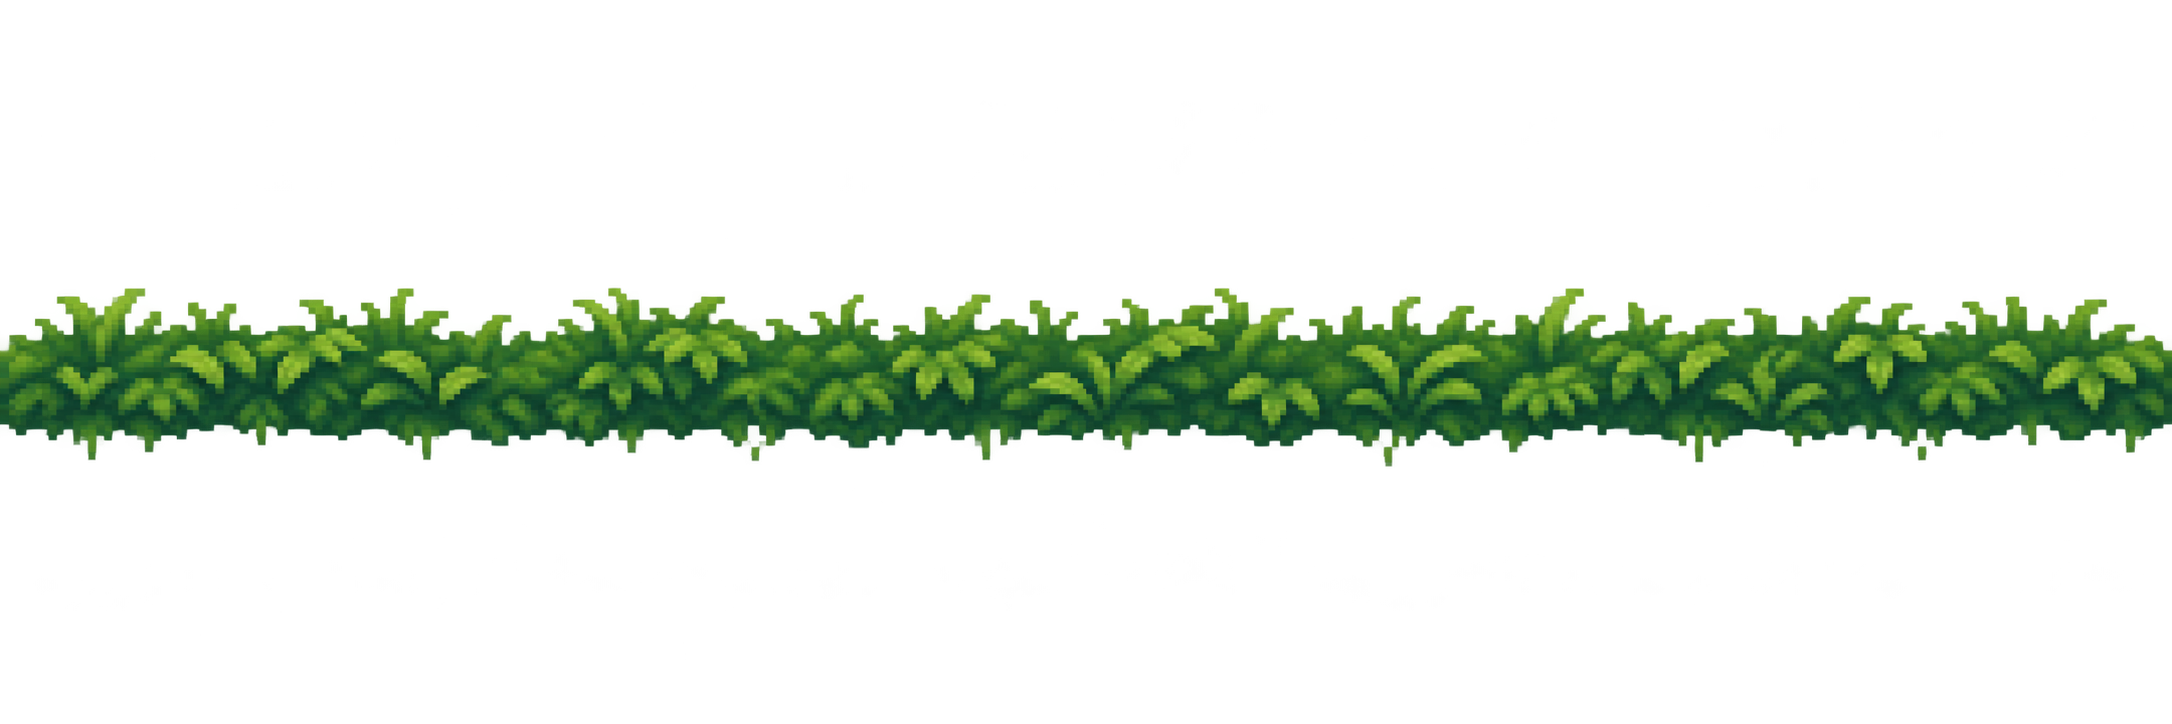
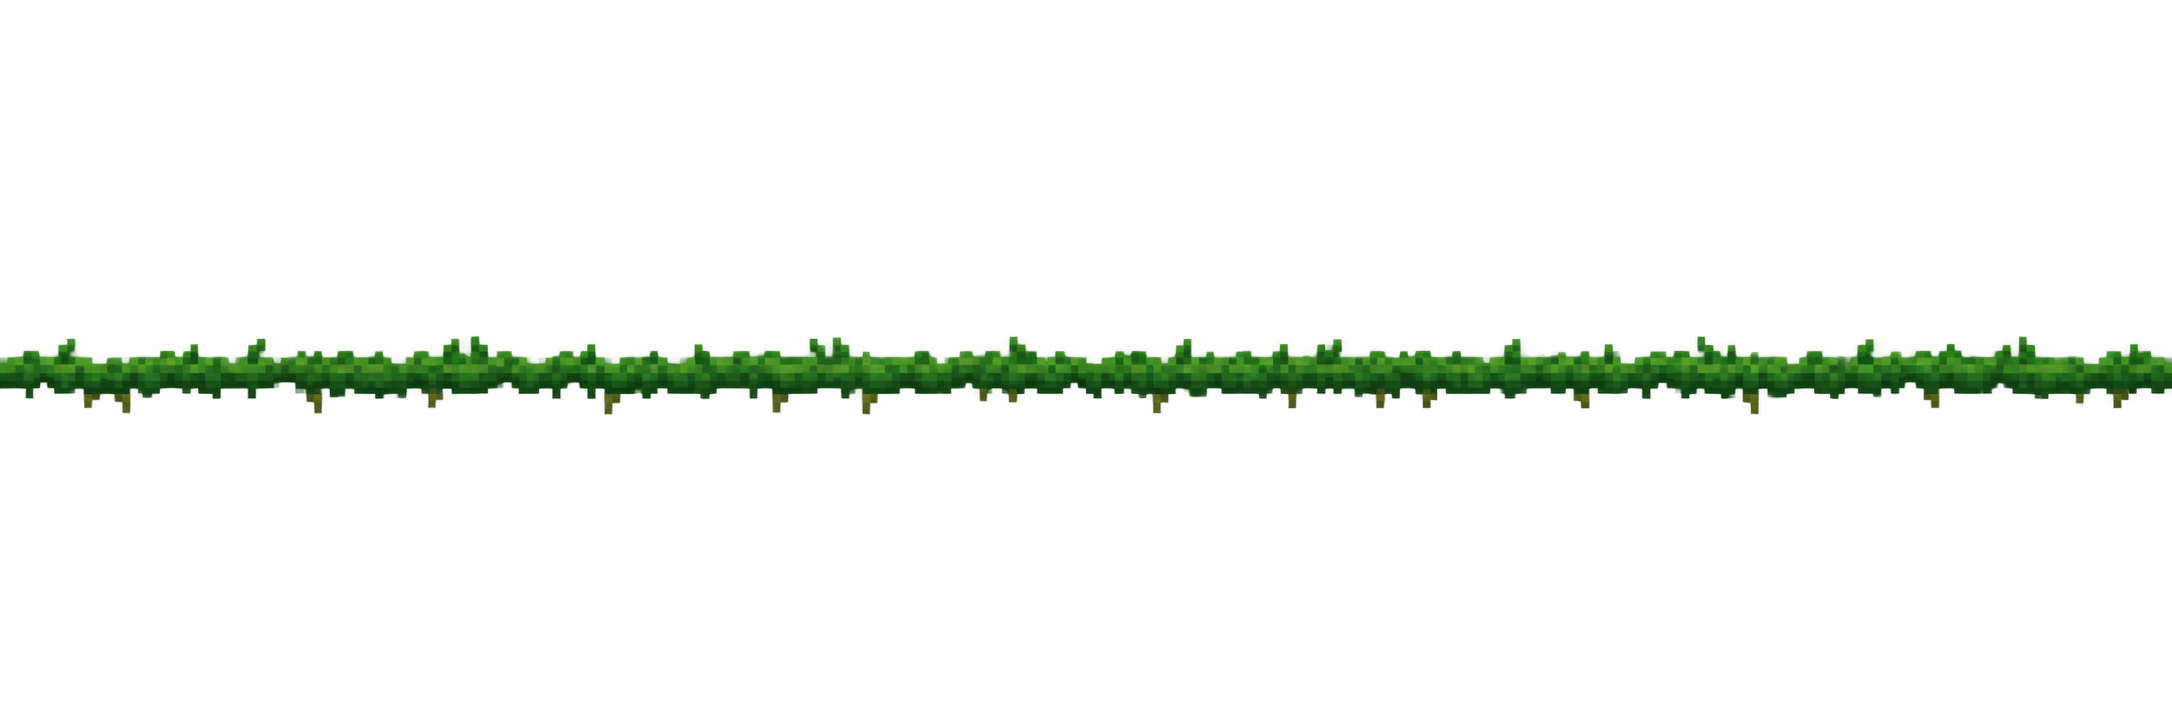
Refine grove turf into thin vanilla-like sod across all block forms

Changed region(s): [[0.0, 0.395, 1.0, 0.6381]]

diff --git a/Content/Tiles/GroveTurfShape.cs b/Content/Tiles/GroveTurfShape.cs
@@ -31,34 +31,41 @@ namespace IslandAdventure.Content.Tiles
         {
             var tile=Main.tile[i,j];
             int frame=(i%(texture.Width/18))*18;
-            // Sample every exposed face against actual neighboring collision geometry.
-            // The same textured rim is oriented onto sides, undersides and hammered edges.
-            for(int y=0;y<16;y++)for(int x=0;x<16;x++)
+            for(int y=0;y<16;y+=2)for(int x=0;x<16;x+=2)
             {
-                if(!Contains(tile.Slope,tile.IsHalfBlock,x,y))continue;
-                int depth=9,axis=0;
-                for(int d=1;d<=8;d++)
-                {
-                    int wx=i*16+x,wy=j*16+y;
-                    if(!Solid(wx,wy-d)){depth=d;axis=0;break;}
-                    if(!Solid(wx-d,wy)){depth=d;axis=1;break;}
-                    if(!Solid(wx+d,wy)){depth=d;axis=2;break;}
-                    if(!Solid(wx,wy+d)){depth=d;axis=3;break;}
-                    if(d<=4&&(!Solid(wx-d,wy-d)||!Solid(wx+d,wy-d)||!Solid(wx-d,wy+d)||!Solid(wx+d,wy+d)))
-                    {depth=d+2;axis=0;break;}
-                }
-                if(depth>8)continue;
-                int along=axis==1||axis==2?y:x;
-                batch.Draw(texture,point+new Vector2(x,y),new Rectangle(frame+along,4+depth-1,1,1),light);
+                if(TrySample(i,j,x,y,out int along,out int sourceY))
+                    batch.Draw(texture,point+new Vector2(x,y),new Rectangle(frame+along,sourceY,2,2),light);
             }
             // Grass tips remain above an exposed flat top; soil/body never spills outside slopes.
             if(tile.Slope==SlopeType.Solid)
             {
                 int top=tile.IsHalfBlock?8:0;
-                for(int x=0;x<16;x++)if(!Solid(i*16+x,j*16+top-1))
-                    for(int y=0;y<4;y++)if(!Solid(i*16+x,j*16+top-4+y))
-                        batch.Draw(texture,point+new Vector2(x,top-4+y),new Rectangle(frame+x,y,1,1),light);
+                for(int x=0;x<16;x+=2)if(!Solid(i*16+x,j*16+top-2))
+                    batch.Draw(texture,point+new Vector2(x,top-2),new Rectangle(frame+x,2,2,2),light);
             }
+        }
+        // Exposed geometry, not tile-frame indices, controls all connections.
+        // The top is 4px of sod + 2px transition, sides at most 4px;
+        // undersides sample only sparse root tips, never an opaque green band.
+        public static bool TrySample(int i,int j,int x,int y,out int along,out int sourceY)
+        {
+            along=x;sourceY=0;
+            var tile=Main.tile[i,j];
+            if(!tile.HasTile||!Contains(tile.Slope,tile.IsHalfBlock,x,y))return false;
+            int wx=i*16+x,wy=j*16+y;
+            for(int step=1;step<=3;step++)
+            {
+                int d=step*2;
+                if(!Solid(wx,wy-d)){sourceY=4+(step-1)*2;return true;}
+                if(step<=2&&(!Solid(wx-d,wy)||!Solid(wx+d,wy)))
+                {along=y;sourceY=4+(step-1)*2;return true;}
+                if(step==1&&!Solid(wx,wy+d)){sourceY=10;return true;}
+                if(step<=2&&(!Solid(wx-d,wy-d)||!Solid(wx+d,wy-d)))
+                {sourceY=6+(step-1)*2;return true;}
+                if(step==1&&(!Solid(wx-d,wy+d)||!Solid(wx+d,wy+d)))
+                {sourceY=10;return true;}
+            }
+            return false;
         }
     }
 }

diff --git a/tools/render_grove_tree_preview.py b/tools/render_grove_tree_preview.py
@@ -38,7 +38,7 @@ def render():
                          f"{x-origin_x:+d}{y-origin_y:+d}", "-composite"])
 
         for x in range(origin_x // 16, (origin_x + 400) // 16 + 1):
-            add("GrassEdge", f"16x16+{(x%6)*18}+0", x*16, floor*16-4)
+            add("GrassEdge", f"16x10+{(x%6)*18}+0", x*16, floor*16-4)
         for tile in tiles:
             add("Tree", f"20x20+{tile['fx']}+{tile['fy']}",
                 tile["x"] * 16 - 2, tile["y"] * 16)
@@ -81,7 +81,7 @@ def render_ground_contact():
             args.extend([str(path), "-geometry", f"{x:+d}{y:+d}", "-composite"])
 
         for x in range(0, width, 16):
-            add("GrassEdge", f"16x16+{((x//16)%6)*18}+0", x, baseline-4)
+            add("GrassEdge", f"16x10+{((x//16)%6)*18}+0", x, baseline-4)
         x = 16
         for name, columns, rows in objects:
             offset = 12 if name == "Roots" else 6

diff --git a/README.md b/README.md
@@ -771,3 +771,20 @@ headless-проверка игровые кадры не рисует.
 роста травинок, запрет красильных растений, остановку саженца и травы для зелий,
 ручную посадку и обычный рост травы для зелий вне рощи. Прежние проверки дёрна,
 лозы, галереи, инструментов и сохранений также прошли.
+
+0.4.13: дёрн переработан в более тонкую кромку с пропорциями ближе к ванильной
+траве: мелкие кончики над землёй, 4px основного слоя и до 2px перехода в почву.
+Боковой слой ограничен 4px; снизу рисуются только редкие корешки вместо
+сплошной зелёной полосы. Вся выборка и отрисовка переведены на сетку 2x2.
+Форма земли после молота сохраняется, отдельный блок оставляет видимую
+земляную середину. Закрытые соседями грани не получают лишних зелёных швов.
+Обновлены исходник, воспроизводимый сборщик текстуры и статичные превью.
+Механики дёрна, растений и ограничения роста из 0.4.12 не менялись.
+
+Сборка без предупреждений, 49 382 серверные проверки прошли: шесть форм
+блока на всех 256 сочетаниях соседей, внутренние углы, переход к камню,
+удаление соседа, полублок у соседа, актуатор, ванильные PoundTile/SlopeTile
+и предыдущие проверки роста/галереи. Атлас проверен на сетку 2x2,
+бинарную альфу, непрозрачные 4px дёрна и прозрачные промежутки кадров;
+нижние кончики занимают только 10 из 96 пикселей ширины набора.
+Превью используют схематичную почву; проверка в графическом клиенте ещё нужна.

diff --git a/tools/art/grove/README.md b/tools/art/grove/README.md
@@ -57,3 +57,12 @@ rooted in gallery grass use the approved Tuft atlas, including anchored wind swa
 The turf pass now suppresses the vanilla green sprite entirely and draws vanilla
 Dirt pixels under the custom exposed-edge material. Upper-slope masks follow the
 correct solid sides and all slope masks use Terraria's 2px staircase.
+
+0.4.13 replaces `turf-source.png` with a thin vanilla-proportioned sod strip,
+not moss cushions. The packed 108x16 atlas keeps six 16px frames with 2px gutters:
+transparent y=0..1, blade tips y=2..3, opaque sod y=4..7, irregular roots
+y=8..11, transparent y=12..15. Runtime top sampling is capped at 6px including
+the transition, side sampling at 4px, and undersides use only the sparse y=10..11
+tips. Sampling/drawing is entirely on a 2x2 grid. The source, atlas builder and
+static contact/tree previews were updated together. Static previews use the
+actual top sample range with a schematic soil guide, not client screenshots.
